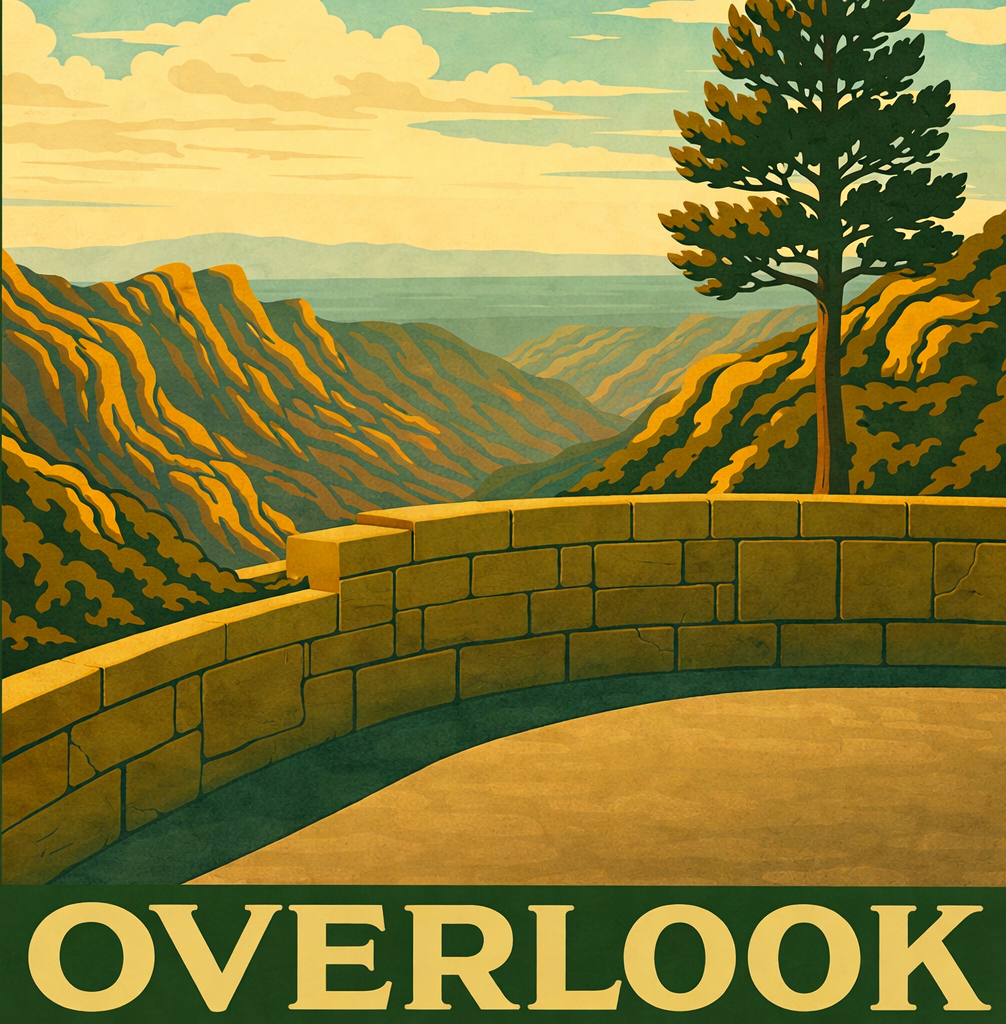
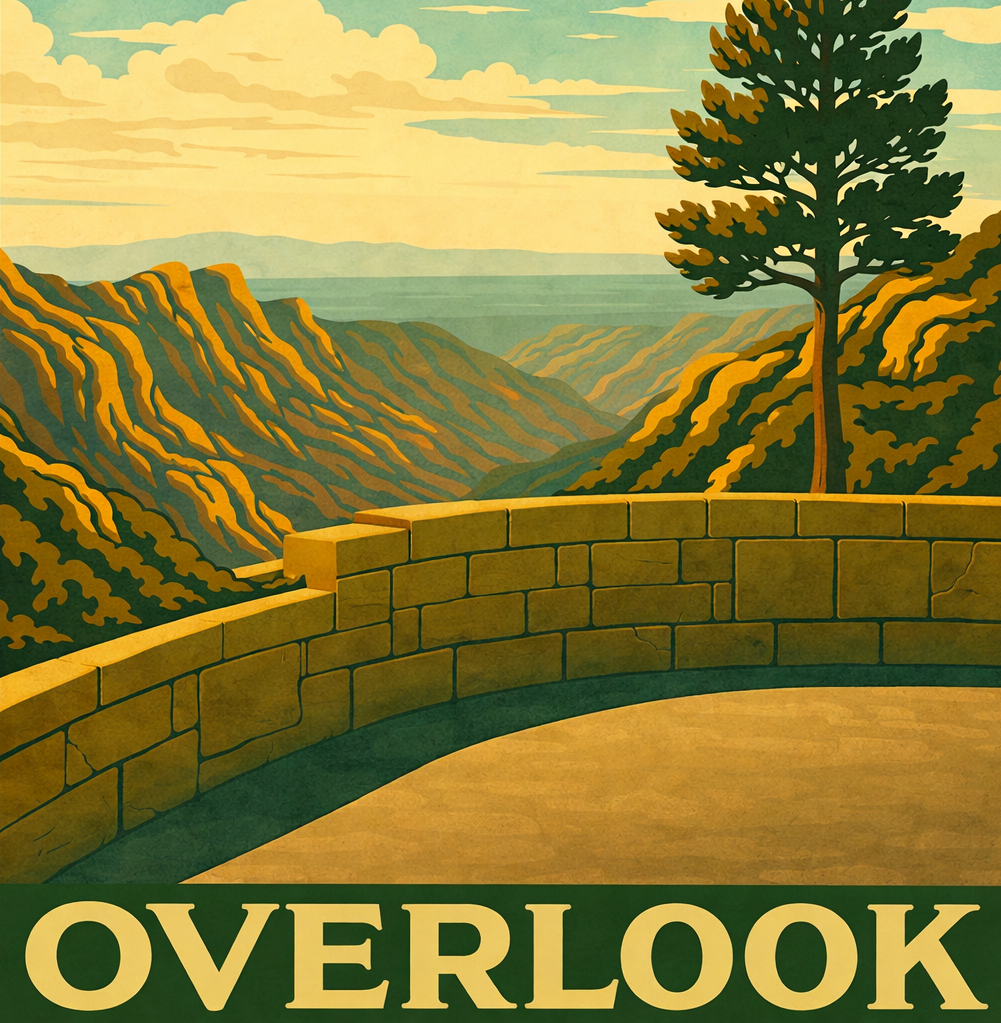
cropped image and made it 300px square

diff --git a/site/style.css b/site/style.css
@@ -31,7 +31,9 @@
 }
 
 body {
-    font-family: -apple-system, BlinkMacSystemFont, "Segoe UI", Roboto, Helvetica, Arial, sans-serif;
+    font-family:
+        -apple-system, BlinkMacSystemFont, "Segoe UI", Roboto, Helvetica, Arial,
+        sans-serif;
     background: var(--bg);
     color: var(--text);
     line-height: 1.6;
@@ -115,7 +117,7 @@ main {
 }
 
 .hero-image {
-    width: 400px;
+    width: 300px;
     height: auto;
     margin-bottom: 2rem;
 }
